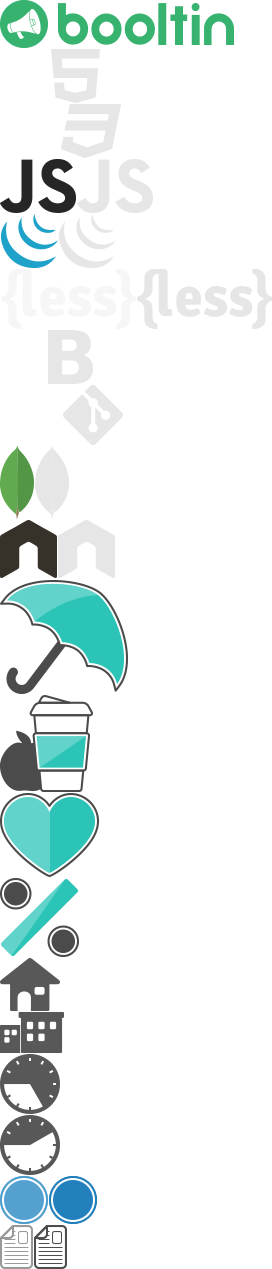
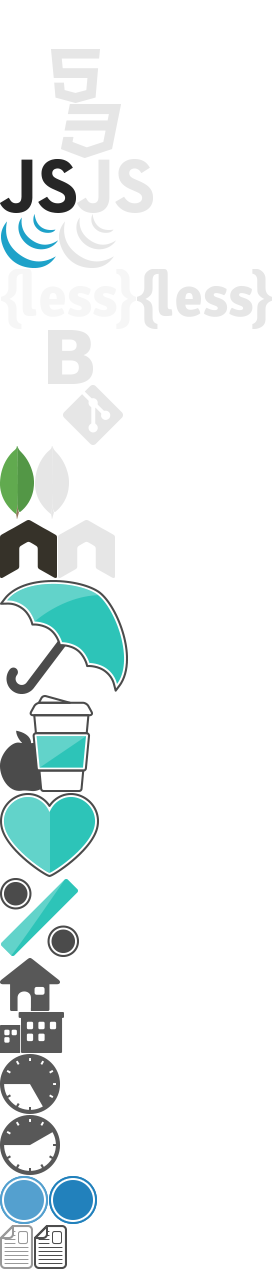
register page is redesigned

Changed region(s): [[0.2059, 0.0, 0.8824, 0.0615], [0.0, 0.0, 0.1765, 0.0615]]

diff --git a/public/css/booltin.css b/public/css/booltin.css
@@ -57,9 +57,9 @@ nav  ~ .container, nav ~ .container-fluid {
     background-image: url("/images/bltn-hiring-icons@2x.png");
     background-size: 272px 1269px;
     background-position: 0 0;
-    width: 200px;
-    height: 24px;
-    background-color: #fff;
+    width: 205px;
+    height: 28px;
+    margin: 18px 0;
 }
 
 nav li a {
@@ -125,4 +125,70 @@ Login
     height: 240px;
     width: 2px;
     background-color: #949079;
+}
+
+.registerBox {
+    color: #949079;
+    background-color: rgba(0, 0, 0, 0.15);
+    border-radius: 4%;
+    width: 350px;
+    position: absolute;
+    right: 135px;
+    top: 100px;
+    padding: 10px;
+}
+
+.registerBoxHeader {
+    font-size: 25px;
+    margin: 0;
+    color: #fff;
+    text-shadow: 2px 2px 1px #414040;
+    font-weight: 700;
+}
+
+.registerForm {
+    margin: 0;
+    padding: 20px;
+    color: #949079
+}
+
+.registerForm button {
+    padding: 15px 0;
+    width: 300px;
+    font-size: 2em;
+    margin: 10px 0 20px 0;
+}
+
+.registerForm .wbtn-2 {
+    background: #E68540;
+    box-shadow: 0 6px #B36832;
+}
+
+.registerForm .wbtn-2:hover {
+    box-shadow: 0 6px #B36832;
+}
+
+.registerForm input {
+    height: 45px;
+    display: block;
+    width: 300px;
+    box-sizing: border-box;
+    font-size: 1.6em;
+    font-weight: 700;
+    border-color: #B3AE92;
+    padding: 0 20px;
+}
+
+.registerForm input:focus {
+    border-color: #807C69;
+    outline: none;
+    box-shadow: none;
+    -webkit-box-shadow: none;
+}
+
+.registerBox .moreOption {
+    font-size: 1.2em;
+    font-weight: 700;
+    text-align: center;
+    margin: 0;
 }
